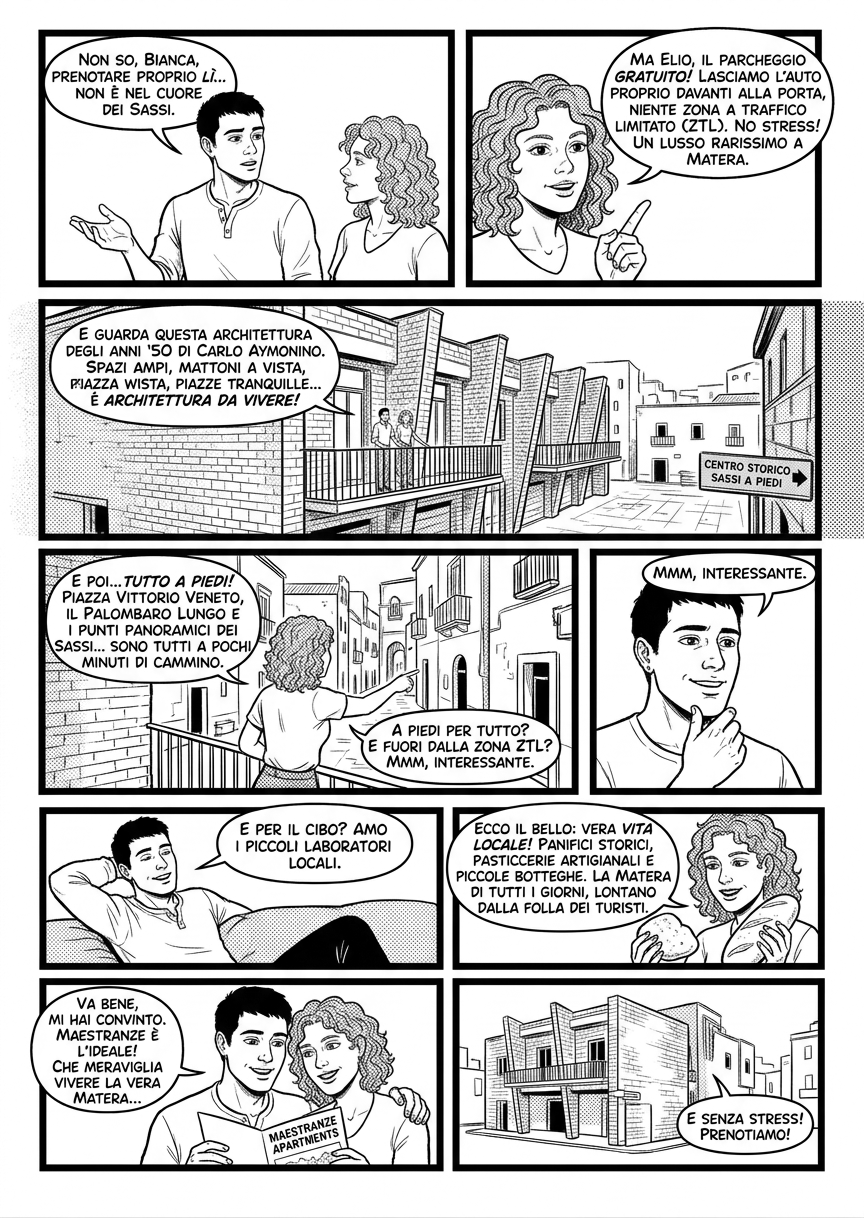
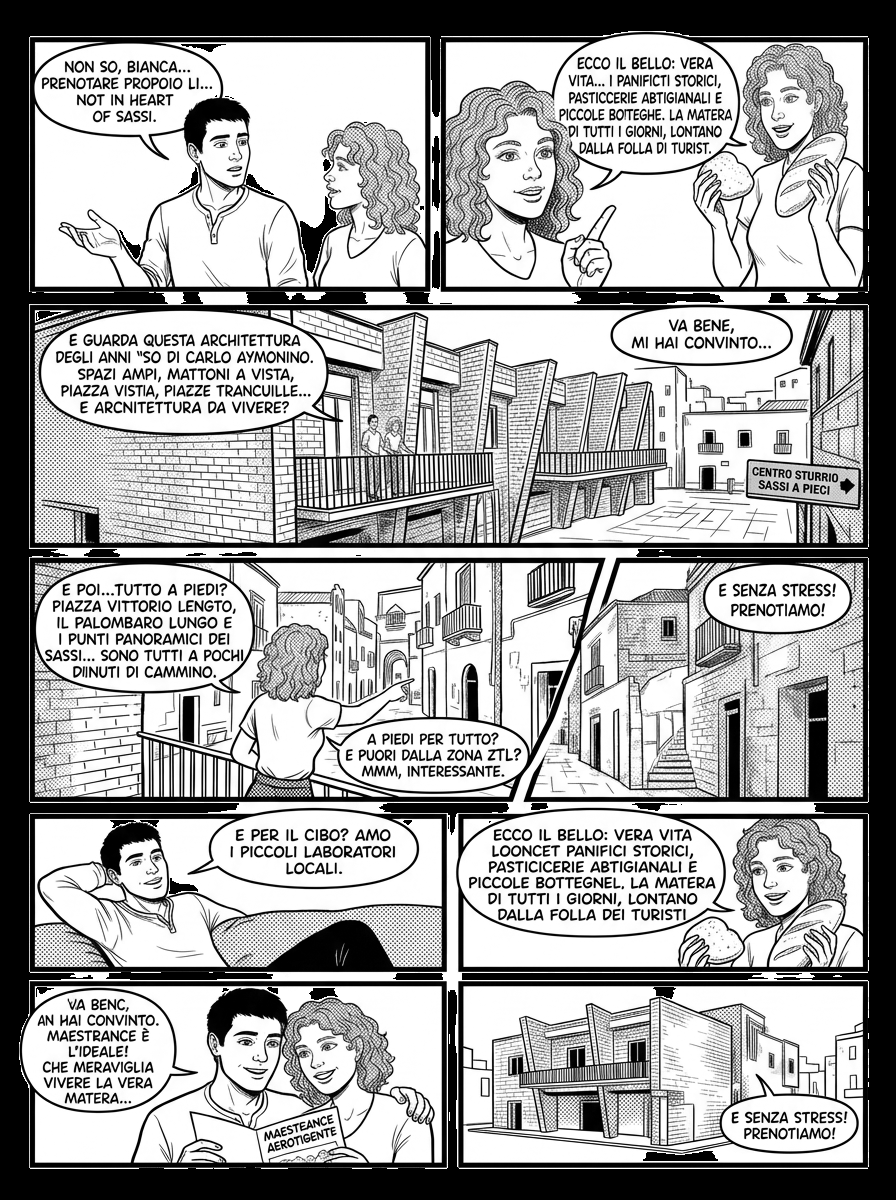
Add files via upload

diff --git a/quartiere.html b/quartiere.html
@@ -115,12 +115,8 @@ figure.shot figcaption{margin-top:9px;font-size:.82rem;color:var(--muted);line-h
 .frame .tag{position:relative;z-index:1;font-size:.62rem;font-weight:600;letter-spacing:.08em;text-transform:uppercase;color:#5c5c58;background:rgba(255,255,255,.85);border-radius:5px;padding:4px 8px;}
 .hscroll figure.shot figcaption{margin-top:10px;font-size:.84rem;color:var(--muted);line-height:1.4;}
   
-.comic{display:flex;flex-direction:column;gap:14px;max-width:880px;margin:0 auto;}
-.crow{display:flex;gap:14px;align-items:flex-start;}
-.cp{display:block;border:1.5px solid #111;background:#fff;height:auto;max-width:100%;}
-.crow.two>.cp{min-width:0;width:0;}
-.crow:not(.two)>.cp{width:100%;}
-@media(max-width:640px){.crow{flex-direction:column;}.crow.two>.cp{flex:none!important;width:100%;}}
+.comicpage{max-width:760px;margin:0 auto;}
+.comicpage img{width:100%;height:auto;display:block;}
   </style>
 </head>
 <body>
@@ -153,12 +149,8 @@ figure.shot figcaption{margin-top:9px;font-size:.82rem;color:var(--muted);line-h
   <section class="section pad gridbg">
     <div class="sec-head"><h2 data-i18n="b_head">Why stay here.</h2></div>
     <hr class="rule"/>
-    <div class="comic">
-      <div class="crow two"><img class="cp" src="cp1.png" alt="" loading="lazy" style="flex:413"><img class="cp" src="cp2.png" alt="" loading="lazy" style="flex:371"></div>
-      <div class="crow"><img class="cp" src="cp3.png" alt="" loading="lazy" style="flex:795"></div>
-      <div class="crow two"><img class="cp" src="cp4.png" alt="" loading="lazy" style="flex:543"><img class="cp" src="cp5.png" alt="" loading="lazy" style="flex:228"></div>
-      <div class="crow two"><img class="cp" src="cp6.png" alt="" loading="lazy" style="flex:408"><img class="cp" src="cp7.png" alt="" loading="lazy" style="flex:382"></div>
-      <div class="crow two"><img class="cp" src="cp8.png" alt="" loading="lazy" style="flex:417"><img class="cp" src="cp9.png" alt="" loading="lazy" style="flex:369"></div>
+    <div class="comicpage">
+      <img src="fumetto.png" alt="Maestranze · una coppia sceglie di prenotare a Spine Bianche (fumetto)" loading="lazy"/>
     </div>
   </section>
 